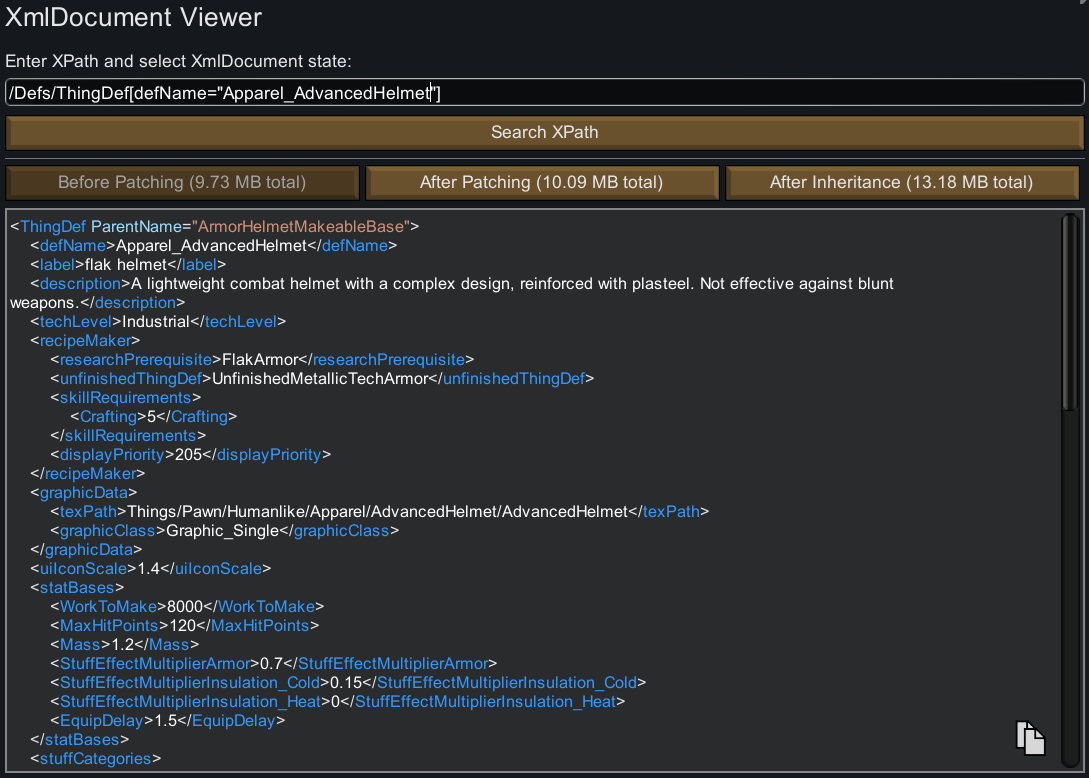
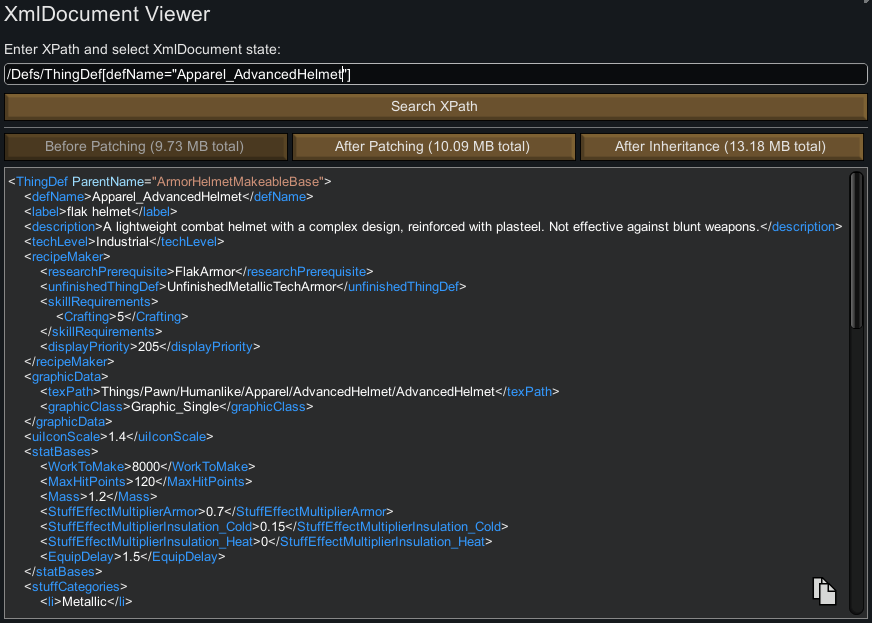
Updated preview

diff --git a/Source/XmlDocumentViewer.cs b/Source/XmlDocumentViewer.cs
@@ -200,13 +200,10 @@ namespace XmlDocumentViewer
 
                 float yStart = start * lineH;
                 float blockH = (end - start + 1) * lineH;
-
-                float drawW = vrW;
-                GUI.Label(new Rect(0f, yStart, drawW, blockH), slice);
-
-                Text.Anchor = prevAnchor; Text.WordWrap = prevWrap; Text.Font = prevFont;
+                GUI.Label(new Rect(0f, yStart, vrW, blockH), slice);
 
                 Widgets.EndScrollView();
+                Text.Anchor = prevAnchor; Text.WordWrap = prevWrap; Text.Font = prevFont;
 
                 // Copy button
                 Rect copyRect = sectionRect.RightPartPixels(32f).BottomPartPixels(32f);
